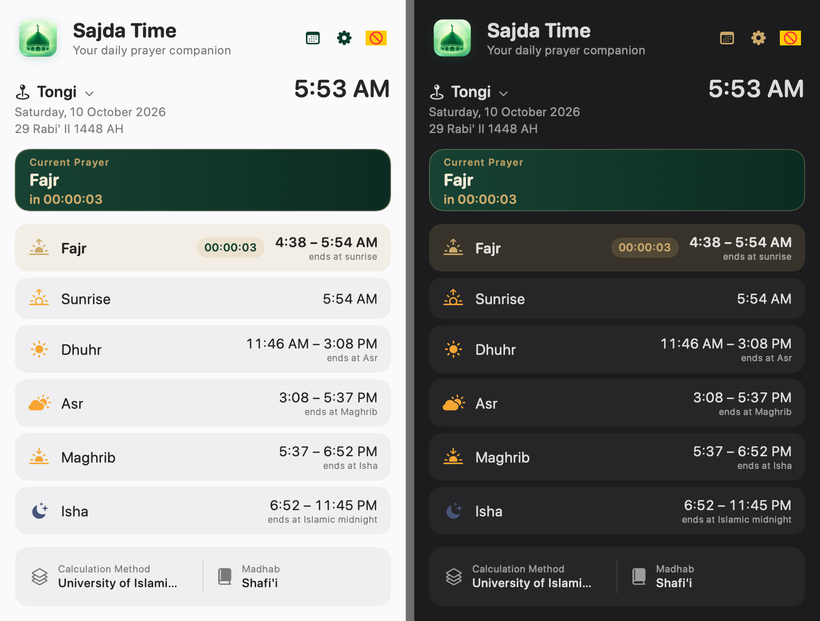
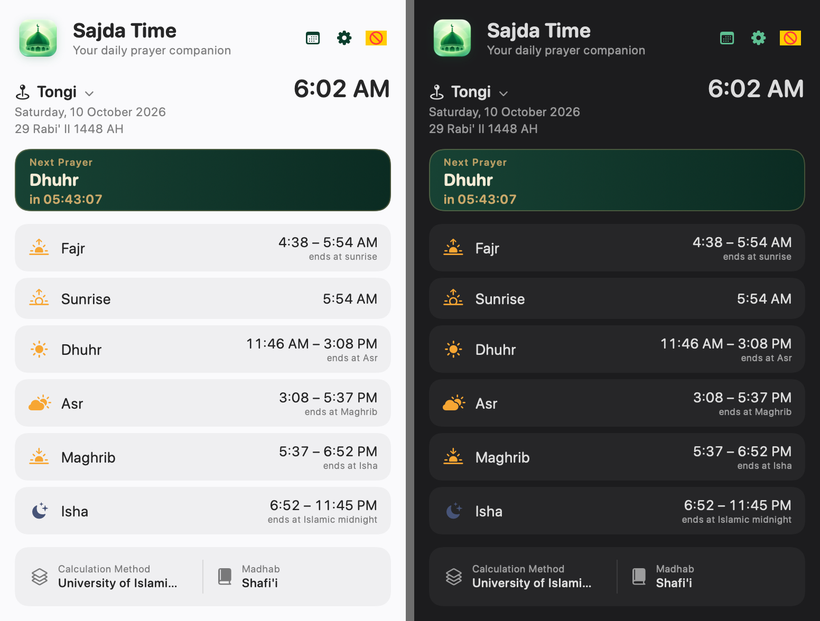
Use brass only as ornament, and put the artwork at the head of the reminder
Brass had been made the functional accent everywhere, and on the system chrome
it read as plain yellow: the panel's header icons, the active prayer row, the
compass, the calendar's today marker. It is an ornament, so it now stays where it
reads as metal — on the emerald cards and in the reminder — and ordinary surfaces
use emerald again through Palette.interactive(_:), which resolves per colour
scheme. Selection fills follow the same split.

Reminder: the drawn mihrab arch is replaced by the app's own artwork. Fitted
whole, the artwork's pale sun landed directly above the title as a bright blob,
so it is filled and anchored low — the crop lands on the mosque and the hills —
then feathered on all four sides into the card. The arch and dome shapes were
only ever used by the removed ornament and are gone with it.

diff --git a/Sources/SajdaTimeApp/Theme.swift b/Sources/SajdaTimeApp/Theme.swift
@@ -43,11 +43,22 @@ enum Palette {
     /// Warm ivory for every piece of text on the emerald card.
     static let cream = Color(red: 0.957, green: 0.922, blue: 0.839)
 
-    /// The app's interactive accent. Brass rather than green, so selections and
-    /// toggles read as the same material as the reminder's ornament.
-    static let accent = gold
-    /// Fill behind a selected row or pill on a light surface.
-    static let accentSoft = Color(red: 0.976, green: 0.941, blue: 0.859)
+    /// The functional accent on ordinary surfaces: emerald, not brass.
+    ///
+    /// Brass is an ornament, and it belongs on the emerald cards where it reads
+    /// as metal. Used for toggles, segmented controls and icons on the system
+    /// chrome it read as yellow instead. Hence the split: brass decorates, this
+    /// one operates.
+    static func interactive(_ scheme: ColorScheme) -> Color {
+        scheme == .dark
+            ? Color(red: 0.369, green: 0.749, blue: 0.573)
+            : emeraldAction
+    }
+
+    /// Fill behind a selected row or pill on an ordinary surface.
+    static func tintFill(_ scheme: ColorScheme) -> Color {
+        scheme == .dark ? interactive(scheme).opacity(0.22) : Color(red: 0.882, green: 0.945, blue: 0.910)
+    }
     /// Muted ivory for the secondary lines on an emerald card.
     static let creamMuted = Color(red: 0.957, green: 0.922, blue: 0.839).opacity(0.72)
 
@@ -72,14 +83,14 @@ enum Palette {
     /// `greenDeep` is correct on the pale banner, but on a dark card or a
     /// dark-tinted row it became dark-on-dark and disappeared.
     static func accentText(_ scheme: ColorScheme) -> Color {
-        // Brass is legible on the dark popover but not on a pale card, where the
-        // deep emerald still carries. The emerald card supplies its own colours.
-        scheme == .dark ? gold : greenInk
+        // Only ever used on ordinary surfaces, so it stays emerald; the emerald
+        // cards supply their own brass and ivory.
+        scheme == .dark ? Color(red: 0.369, green: 0.749, blue: 0.573) : greenInk
     }
 
     /// Fill for a selected row or pill.
     static func selectionFill(_ scheme: ColorScheme) -> Color {
-        scheme == .dark ? gold.opacity(0.22) : accentSoft
+        tintFill(scheme)
     }
 
     static var markGradient: LinearGradient {
@@ -243,7 +254,7 @@ struct BannerArt: View {
 struct SettingsCard<Content: View>: View {
     var title: String?
     var symbol: String?
-    var tint: Color = Palette.accent
+    var tint: Color = Palette.emeraldAction
     @ViewBuilder var content: Content
 
     @Environment(\.colorScheme) private var scheme
@@ -330,12 +341,13 @@ struct CardRow<Trailing: View>: View {
 /// Green-tinted switch, as used throughout the design.
 struct SettingToggle: View {
     @Binding var isOn: Bool
+    @Environment(\.colorScheme) private var scheme
 
     var body: some View {
         Toggle("", isOn: $isOn)
             .labelsHidden()
             .toggleStyle(.switch)
-            .tint(Palette.accent)
+            .tint(Palette.interactive(scheme))
             .controlSize(.small)
     }
 }
@@ -344,6 +356,7 @@ struct SettingToggle: View {
 struct SettingSegmented<Value: Hashable>: View {
     let options: [(Value, String)]
     @Binding var selection: Value
+    @Environment(\.colorScheme) private var scheme
 
     var body: some View {
         HStack(spacing: 3) {
@@ -359,7 +372,7 @@ struct SettingSegmented<Value: Hashable>: View {
                         .padding(.vertical, 5)
                         .background(
                             RoundedRectangle(cornerRadius: 8, style: .continuous)
-                                .fill(selected ? Palette.accent : Color.clear)
+                                .fill(selected ? Palette.interactive(scheme) : Color.clear)
                         )
                         .contentShape(Rectangle())
                 }
@@ -379,6 +392,7 @@ struct SettingPicker<Value: Hashable>: View {
     let options: [(Value, String)]
     @Binding var selection: Value
     var width: CGFloat?
+    @Environment(\.colorScheme) private var scheme
 
     var body: some View {
         Picker("", selection: $selection) {
@@ -389,7 +403,7 @@ struct SettingPicker<Value: Hashable>: View {
         .labelsHidden()
         .pickerStyle(.menu)
         .controlSize(.regular)
-        .tint(Palette.accent)
+        .tint(Palette.interactive(scheme))
         .frame(width: width, alignment: .trailing)
     }
 }
@@ -480,7 +494,7 @@ struct StatusLine: View {
 
     private var colour: Color {
         switch kind {
-        case .info: return Palette.accent
+        case .info: return Palette.emeraldAction
         case .warning: return Palette.amber
         case .error: return .red
         }

diff --git a/Sources/SajdaTimeApp/PrayerAlertView.swift b/Sources/SajdaTimeApp/PrayerAlertView.swift
@@ -105,7 +105,8 @@ struct PrayerAlertView: View {
 
     private var card: some View {
         VStack(spacing: 0) {
-            archOrnament
+            // The app's own artwork, in place of the drawn arch.
+            illustration
                 .padding(.top, 18)
 
             Text("It's time for \(prayer.displayName)")
@@ -148,25 +149,39 @@ struct PrayerAlertView: View {
         .shadow(color: .black.opacity(0.55), radius: 46, y: 22)
     }
 
-    /// The mihrab outline with its crescent and domes, at the head of the card.
-    private var archOrnament: some View {
-        ZStack {
-            MihrabArch()
-                .stroke(Palette.gold.opacity(0.65), lineWidth: 1.2)
-            VStack(spacing: 3) {
-                Image(systemName: "moon.fill")
-                    .font(.system(size: 11))
-                    .foregroundStyle(Palette.cream.opacity(0.9))
-                HStack(alignment: .bottom, spacing: 5) {
-                    DomeShape().frame(width: 13, height: 6.5)
-                    DomeShape().frame(width: 22, height: 11)
-                    DomeShape().frame(width: 13, height: 6.5)
-                }
-                .foregroundStyle(Palette.gold.opacity(0.85))
-            }
-            .offset(y: 11)
-        }
-        .frame(width: 128, height: 64)
+    /// The app's artwork at the head of the card, in place of the drawn arch.
+    /// Fitted so the whole scene shows, and faded at the base so it sits on the
+    /// emerald rather than ending on a hard edge.
+    private var illustration: some View {
+        // Filled and anchored low, so the crop lands on the mosque and the hills.
+        // Fitted whole, the artwork's pale sun sat directly above the title as a
+        // bright blob against the emerald.
+        BannerArt(mode: .fill)
+            .frame(width: 330, height: 62, alignment: .bottom)
+            .clipped()
+            .mask(
+                LinearGradient(
+                    stops: [
+                        .init(color: .clear, location: 0.00),
+                        .init(color: .black, location: 0.38),
+                        .init(color: .black, location: 0.78),
+                        .init(color: .clear, location: 1.00),
+                    ],
+                    startPoint: .top, endPoint: .bottom
+                )
+            )
+            .mask(
+                LinearGradient(
+                    stops: [
+                        .init(color: .clear, location: 0.00),
+                        .init(color: .black, location: 0.20),
+                        .init(color: .black, location: 0.80),
+                        .init(color: .clear, location: 1.00),
+                    ],
+                    startPoint: .leading, endPoint: .trailing
+                )
+            )
+            .opacity(0.95)
     }
 
     private var timeChip: some View {
@@ -363,44 +378,6 @@ struct RuleDivider: View {
         Rectangle()
             .fill(Palette.gold.opacity(0.35))
             .frame(width: width, height: 1)
-    }
-}
-
-/// The pointed arch that heads the card.
-struct MihrabArch: Shape {
-    func path(in rect: CGRect) -> Path {
-        var path = Path()
-        let w = rect.width, h = rect.height
-        path.move(to: CGPoint(x: rect.minX, y: rect.maxY))
-        path.addLine(to: CGPoint(x: rect.minX, y: rect.minY + h * 0.50))
-        path.addCurve(
-            to: CGPoint(x: rect.midX, y: rect.minY),
-            control1: CGPoint(x: rect.minX, y: rect.minY + h * 0.14),
-            control2: CGPoint(x: rect.minX + w * 0.30, y: rect.minY + h * 0.05)
-        )
-        path.addCurve(
-            to: CGPoint(x: rect.maxX, y: rect.minY + h * 0.50),
-            control1: CGPoint(x: rect.maxX - w * 0.30, y: rect.minY + h * 0.05),
-            control2: CGPoint(x: rect.maxX, y: rect.minY + h * 0.14)
-        )
-        path.addLine(to: CGPoint(x: rect.maxX, y: rect.maxY))
-        return path
-    }
-}
-
-/// A half-round dome, for the silhouette inside the arch.
-struct DomeShape: Shape {
-    func path(in rect: CGRect) -> Path {
-        var path = Path()
-        path.addArc(
-            center: CGPoint(x: rect.midX, y: rect.maxY),
-            radius: rect.width / 2,
-            startAngle: .degrees(180),
-            endAngle: .degrees(0),
-            clockwise: false
-        )
-        path.closeSubpath()
-        return path
     }
 }
 

diff --git a/Sources/SajdaTimeApp/PanelView.swift b/Sources/SajdaTimeApp/PanelView.swift
@@ -97,7 +97,7 @@ struct PanelView: View {
         .menuStyle(.borderlessButton)
         .menuIndicator(.hidden)
         .frame(width: 28)
-        .foregroundStyle(Palette.accentText(scheme))
+        .foregroundStyle(.secondary)
     }
 
     // MARK: - Place and clock
@@ -229,7 +229,7 @@ struct PanelView: View {
         return HStack(spacing: 10) {
                 Image(systemName: prayer.symbolName)
                     .font(.system(size: 15, weight: .medium))
-                    .foregroundStyle(isActive ? Palette.accent : Palette.tint(for: prayer))
+                    .foregroundStyle(isActive ? Palette.emeraldAction : Palette.tint(for: prayer))
                     .frame(width: 22)
                 Text(prayer.displayName)
                     .font(.system(size: 14, weight: isActive ? .semibold : .regular, design: .rounded))
@@ -241,7 +241,7 @@ struct PanelView: View {
                         .foregroundStyle(Palette.accentText(scheme))
                         .padding(.horizontal, 7)
                         .padding(.vertical, 3)
-                        .background(Capsule().fill(Palette.accent.opacity(0.18)))
+                        .background(Capsule().fill(Palette.emeraldAction.opacity(0.18)))
                 }
                 // Both ends of the window, so it is clear how long the prayer
                 // remains valid rather than only when it starts.
@@ -261,7 +261,7 @@ struct PanelView: View {
             .padding(.vertical, 9)
             .background(
                 RoundedRectangle(cornerRadius: 12, style: .continuous)
-                    .fill(isActive ? Palette.accent.opacity(0.16) : Color.primary.opacity(0.05))
+                    .fill(isActive ? Palette.emeraldAction.opacity(0.16) : Color.primary.opacity(0.05))
             )
             .help(windowSummary(for: prayer))
     }

diff --git a/Sources/SajdaTimeApp/QiblaView.swift b/Sources/SajdaTimeApp/QiblaView.swift
@@ -61,7 +61,7 @@ struct QiblaView: View {
                         let cardinal = cardinals[index]
                         Text(cardinal.label)
                             .font(.system(size: 10, weight: .semibold, design: .rounded))
-                            .foregroundStyle(cardinal.label == "N" ? Palette.accent : Color.secondary)
+                            .foregroundStyle(cardinal.label == "N" ? Palette.emeraldAction : Color.secondary)
                             .offset(x: cardinal.x, y: cardinal.y)
                     }
 
@@ -72,7 +72,7 @@ struct QiblaView: View {
                         Text("Qibla")
                             .font(.system(size: 8, weight: .semibold, design: .rounded))
                     }
-                    .foregroundStyle(Palette.accent)
+                    .foregroundStyle(Palette.emeraldAction)
                     .offset(y: -46)
                     .rotationEffect(.degrees(bearing))
                 }
@@ -91,7 +91,7 @@ struct QiblaView: View {
                     .monospacedDigit()
                 Text(turnInstruction)
                     .font(.system(size: 12, weight: .medium, design: .rounded))
-                    .foregroundStyle(Palette.accent)
+                    .foregroundStyle(Palette.emeraldAction)
                 Text(String(format: "%.0f km to the Kaaba · facing %.0f°", distance, heading))
                     .font(.system(size: 11, design: .rounded))
                     .foregroundStyle(.secondary)

diff --git a/Sources/SajdaTimeApp/FocusModeController.swift b/Sources/SajdaTimeApp/FocusModeController.swift
@@ -221,7 +221,7 @@ private struct FocusOverlayView: View {
                 } else {
                     Image(systemName: "eye")
                         .font(.system(size: 56, weight: .light))
-                        .foregroundStyle(Palette.accent)
+                        .foregroundStyle(Palette.emeraldAction)
                     Text("Focus Mode preview")
                         .font(.system(size: 40, weight: .semibold, design: .rounded))
                 }

diff --git a/Sources/SajdaTimeApp/MonthView.swift b/Sources/SajdaTimeApp/MonthView.swift
@@ -92,7 +92,7 @@ struct MonthView: View {
         .frame(height: 40)
         .background(
             RoundedRectangle(cornerRadius: 8, style: .continuous)
-                .fill(isToday ? Palette.accent : Color.primary.opacity(0.04))
+                .fill(isToday ? Palette.emeraldAction : Color.primary.opacity(0.04))
         )
     }
 
